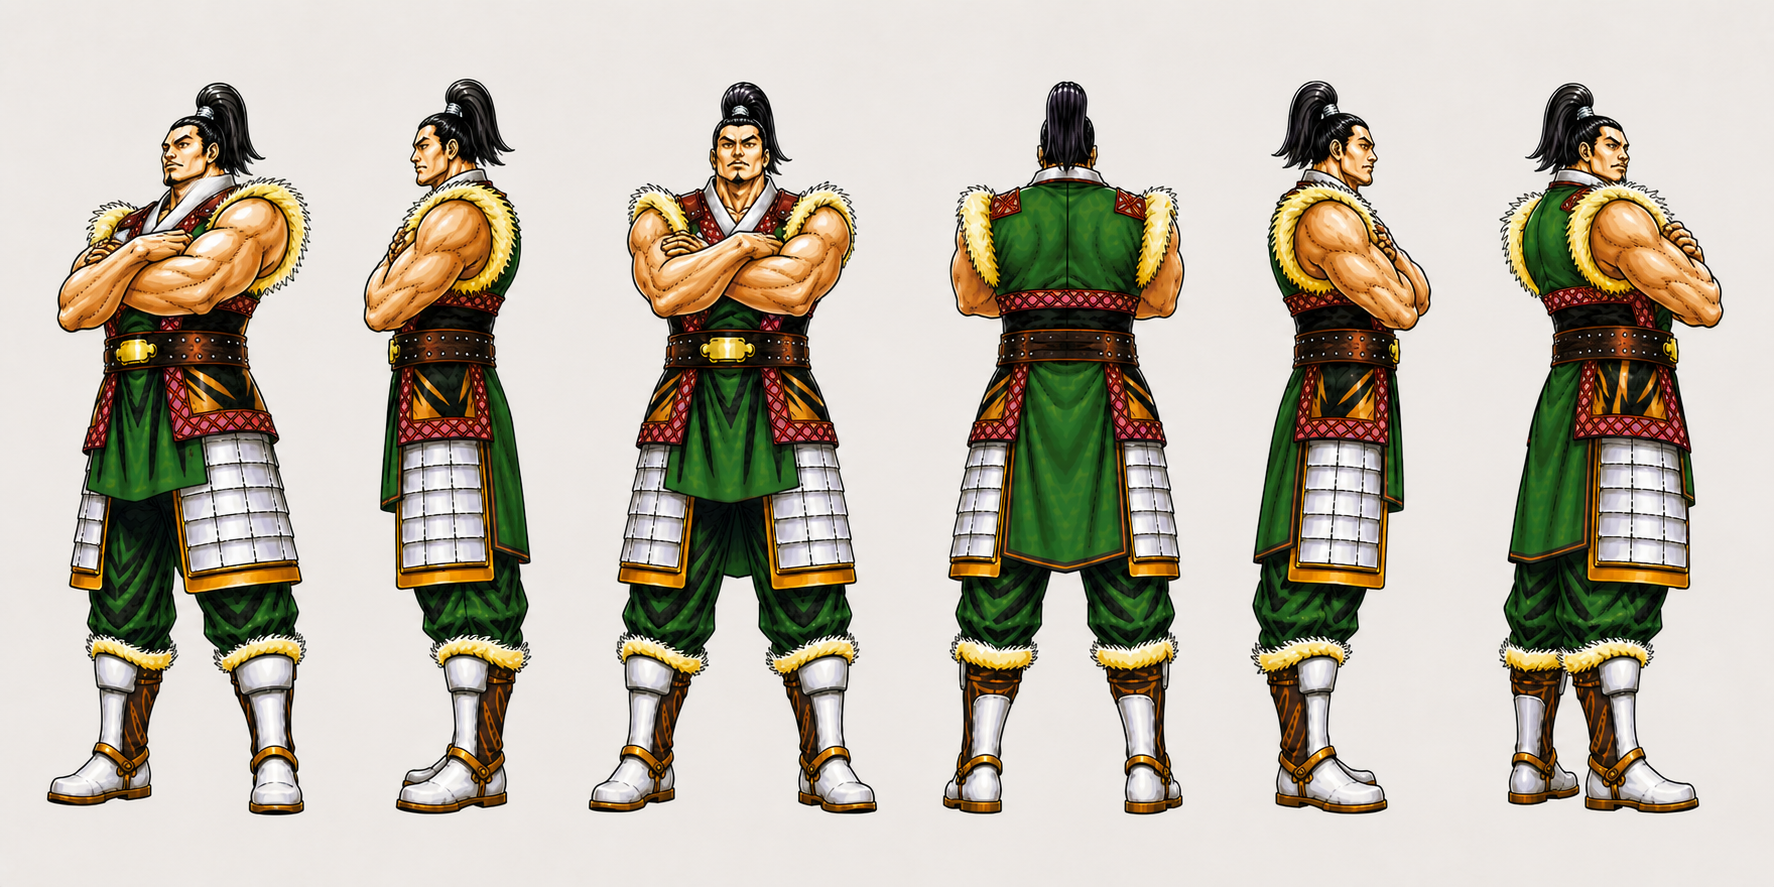
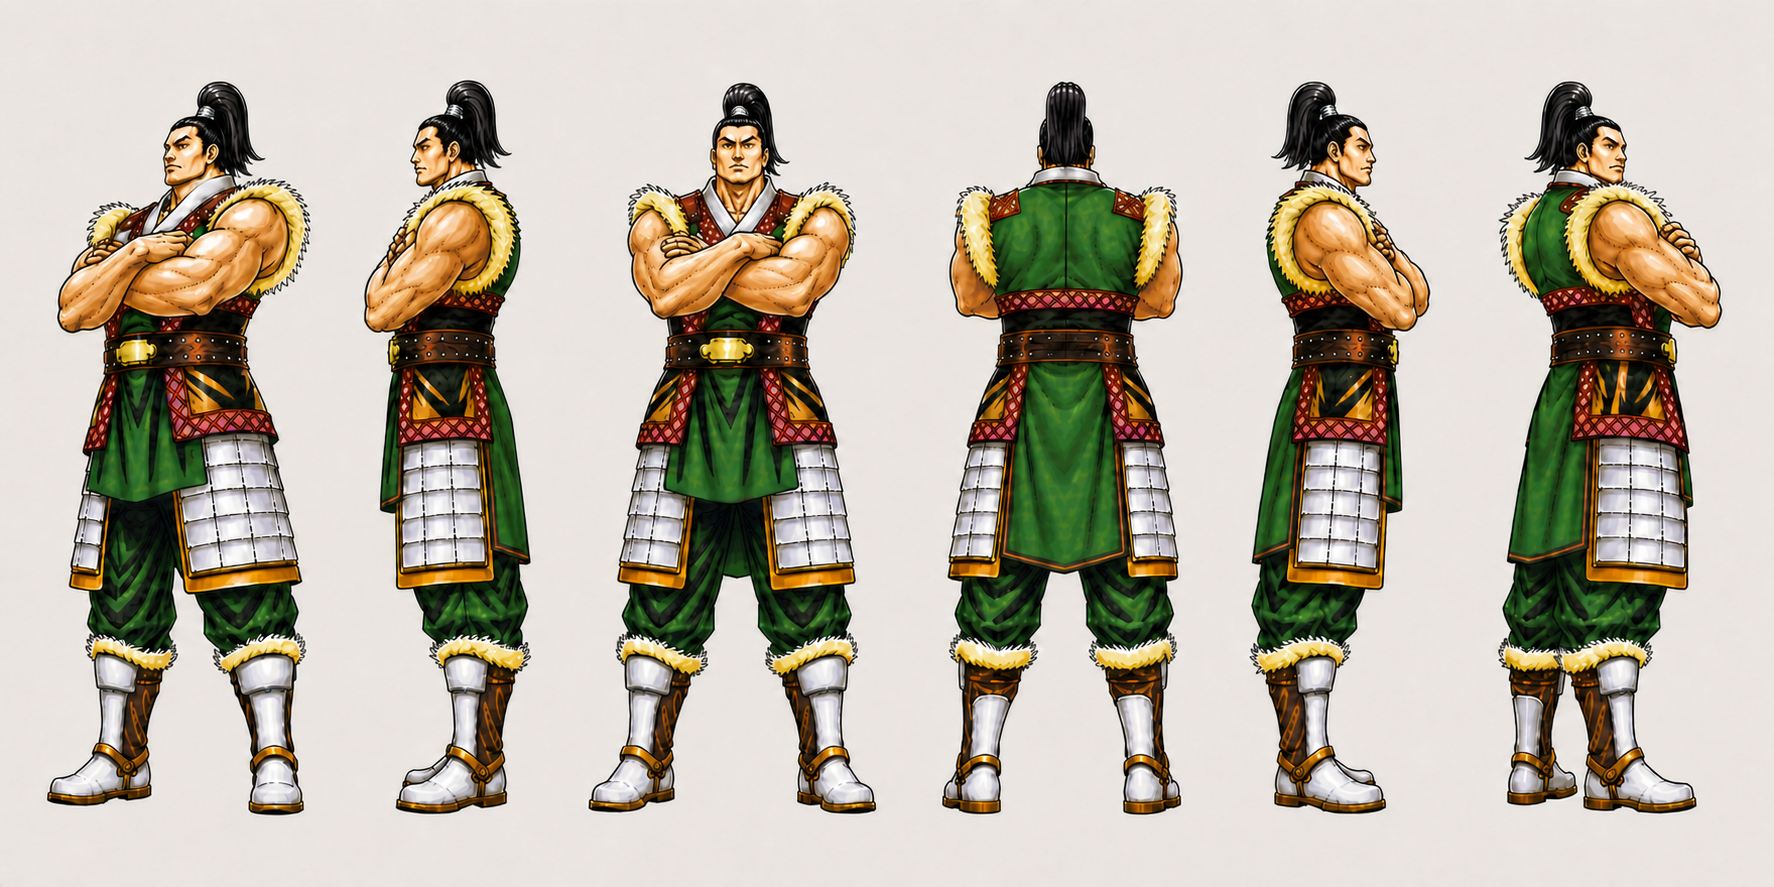
fix(048): 纠正角色无胡须设定
依据原卡移除中立六视图、头部四视图及原画姿态版中的胡须，并同步规格、提示与复核记录。

保留返修前图像为递增版本备份。

diff --git a/character-model-sheets/characters/048/review-notes.md b/character-model-sheets/characters/048/review-notes.md
@@ -24,7 +24,13 @@
 ## 2026-08-21 头部四视图补充
 
 - [x] 已生成 `head-sheet.png`，严格按正面、纯后脑、角色自身左侧面、角色自身右侧面排列。
-- [x] 四张保持同一身份、颅骨体积、发型／头戴、胡须、颈部尺度、裁切、光照和固定复古手绘画风。
+- [x] 四张保持同一身份、颅骨体积、发型／头戴、无胡须状态、颈部尺度、裁切、光照和固定复古手绘画风。
 - [x] 纯后脑没有出现面部；左右侧面来自角色不同解剖侧，未用表情变化代替视角变化。
 - [x] 原图未展示的后脑与连接结构继续按规格中的 `inferred`／`unknown` 克制处理，不宣称为原作事实。
 - 状态保持 `generated`，等待用户批准。
+
+## 2026-08-22 无胡须纠正
+
+- [x] 用户确认 048 原图没有胡须；原图中的嘴部与下巴墨线属于五官及结构线，不是短髭或下巴短须。
+- [x] `character-turnaround.png`、`head-sheet.png` 与 `character-turnaround-original-pose.png` 的所有可见脸部已统一去除胡须，同时保持原有脸型、发型、姿态、服装、版式与画风不变。
+- [x] 返修前主文件已分别保存为 `character-turnaround-v3.png`、`head-sheet-v1.png` 与 `character-turnaround-original-pose-v1.png`，可随时回溯。
